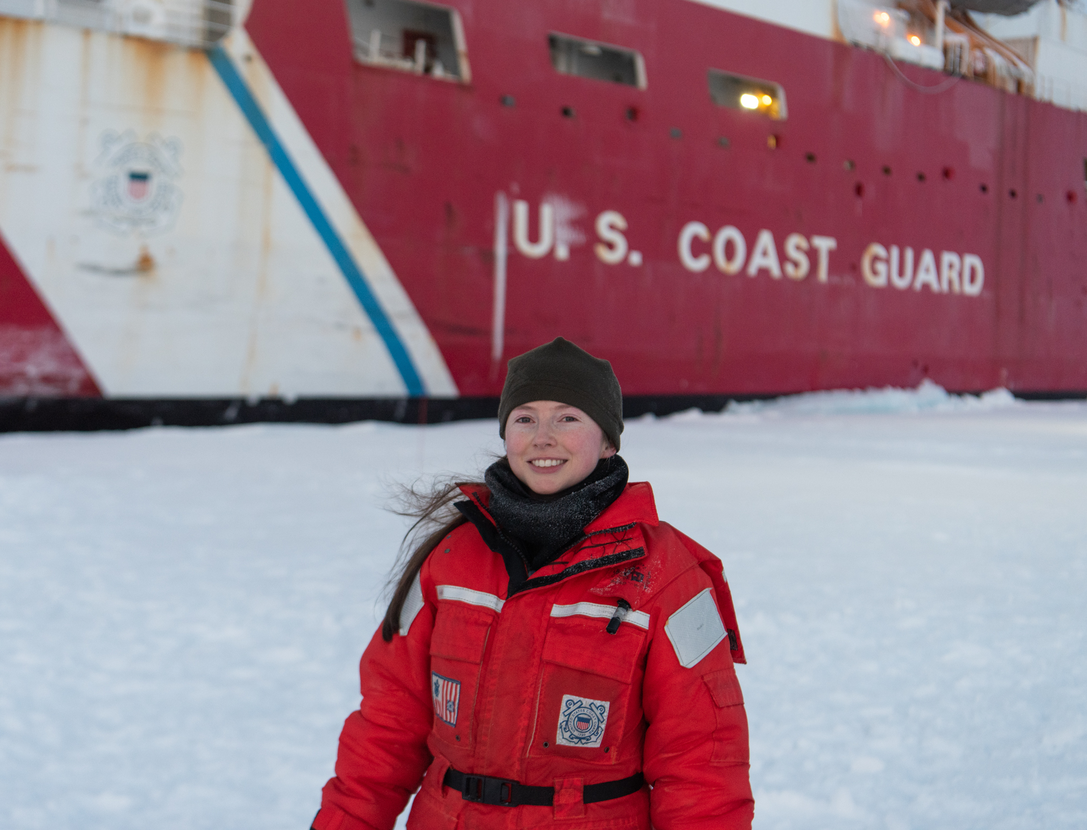
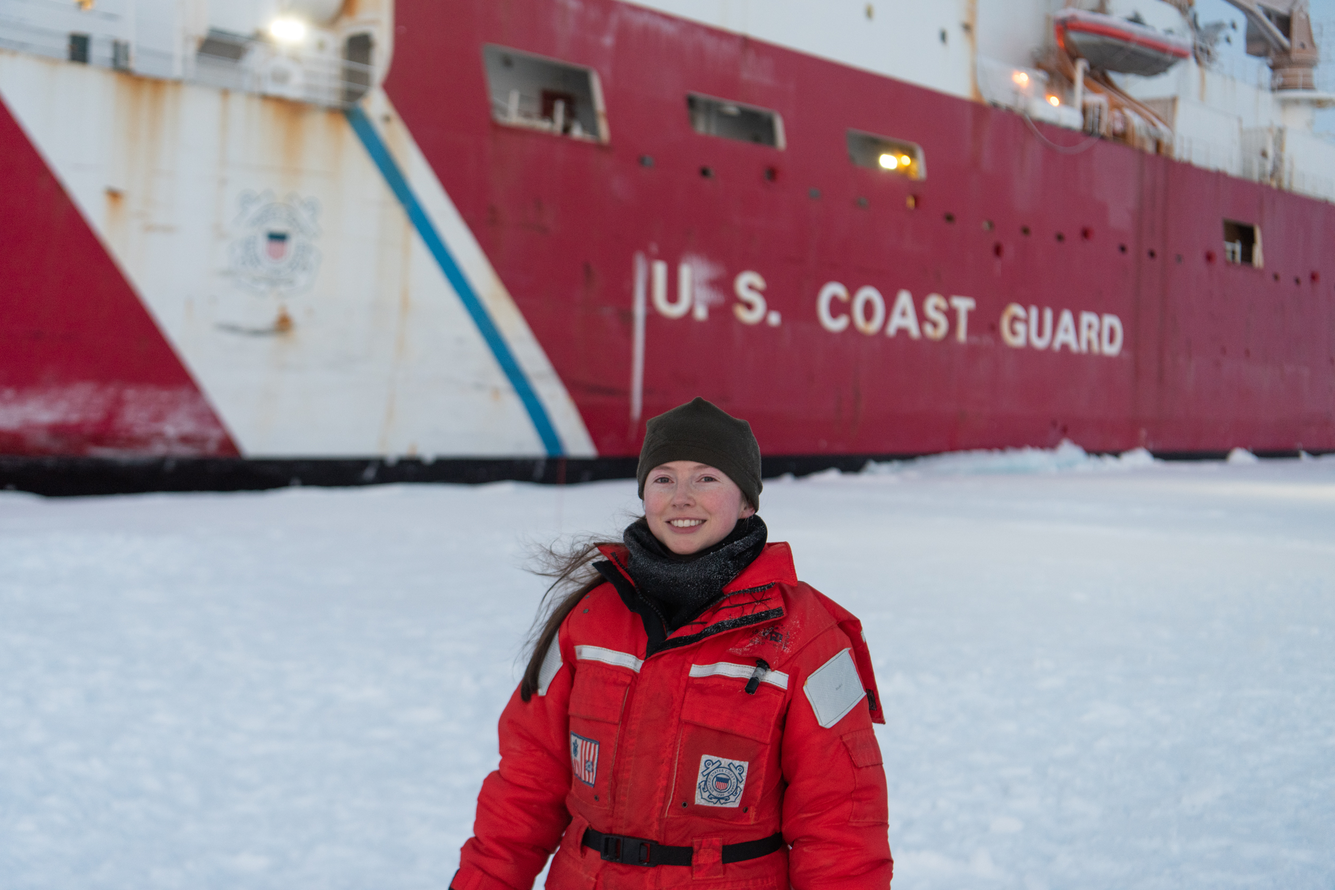
add profile

diff --git a/_pages/about.md b/_pages/about.md
@@ -12,7 +12,16 @@ profile:
   more_info: >
     <p>Pancake ice, Arctic Ocean, September 2025</p>
 
-
+profile:
+  align: right
+    image: prof_pic.jpg
+    content: about_einstein.md
+    image_circular: false # crops the image to make it circular
+    more_info: >
+      <p>555 your office number</p>
+      <p>123 your address street</p>
+      <p>Your City, State 12345</p>
+    
 selected_papers: true # includes a list of papers marked as "selected={true}"
 social: true # includes social icons at the bottom of the page
 
